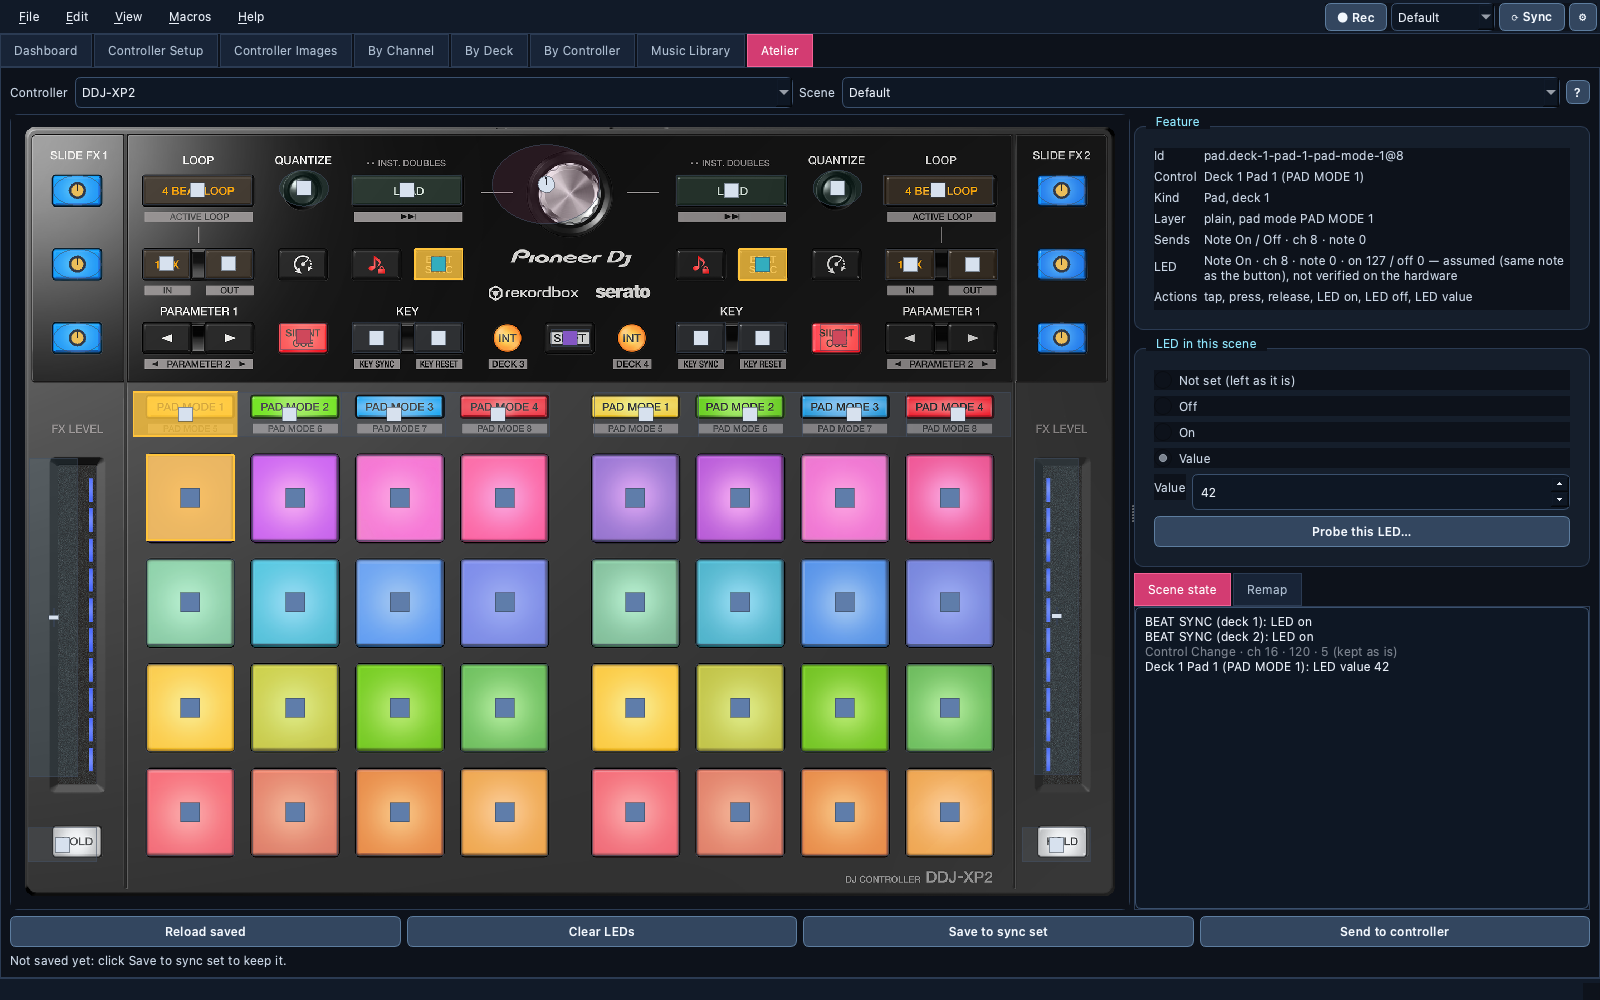
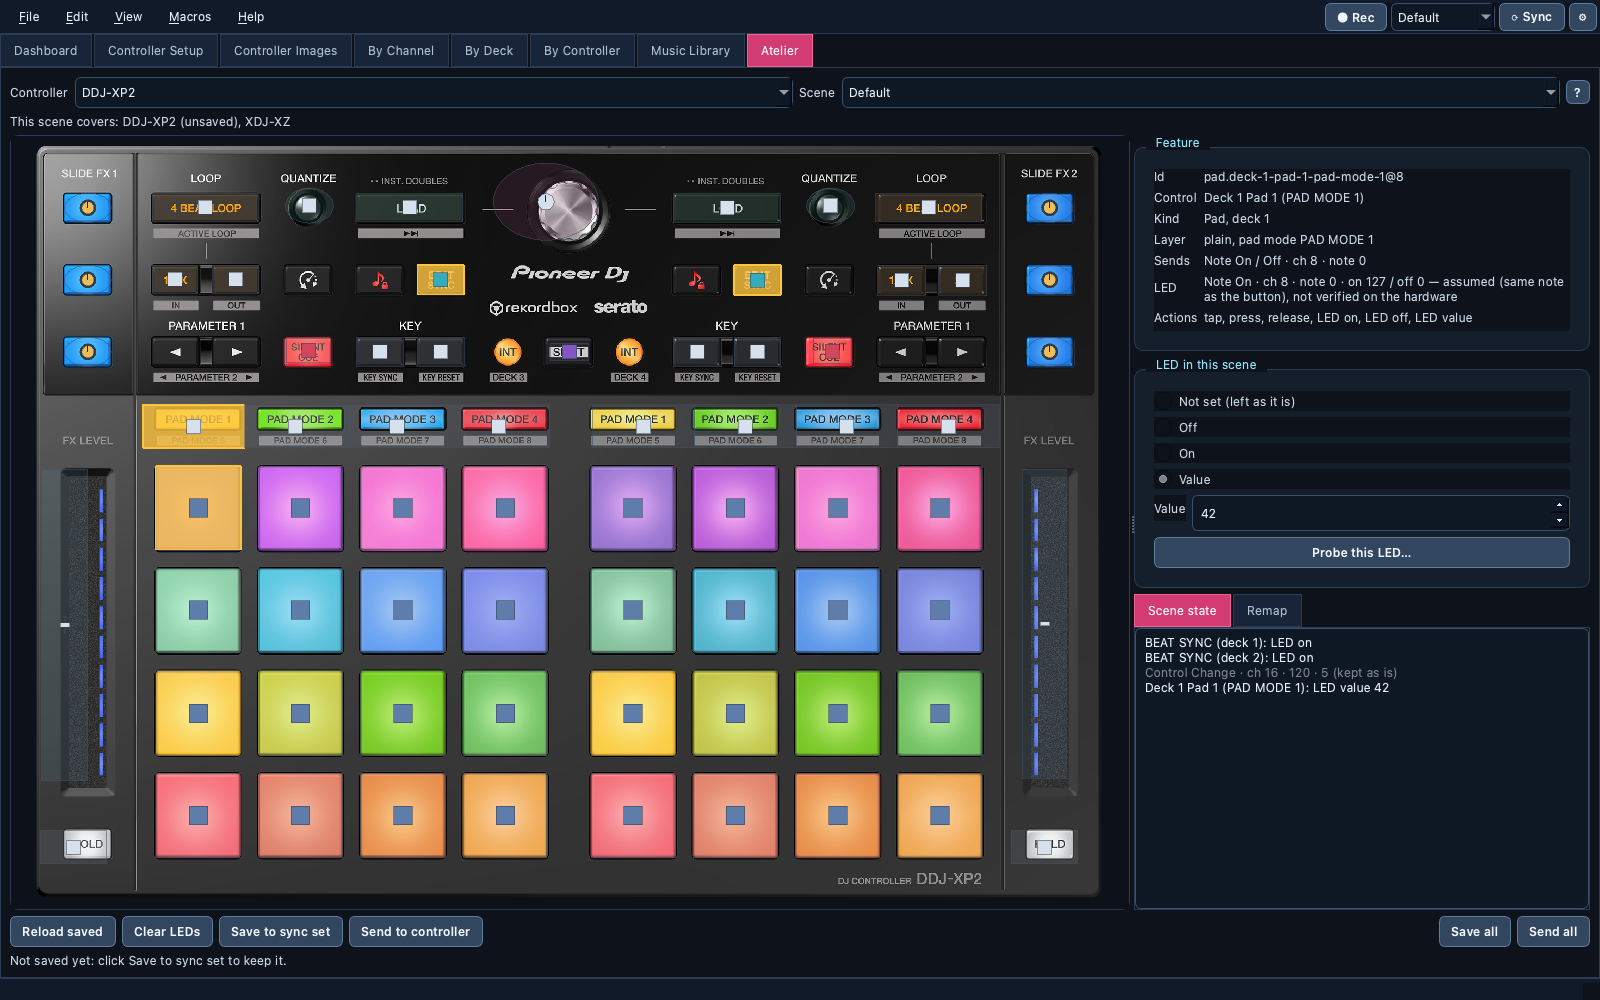
docs: several controllers in one Atelier scene

Changed region(s): [[0.0, 0.093, 1.0, 0.961]]

diff --git a/scripts/capture_docs_screenshots.py b/scripts/capture_docs_screenshots.py
@@ -1048,6 +1048,9 @@ def _capture_atelier(app: QApplication, window: MainWindow) -> None:
             ),
         )
     )
+    # A second controller in the same scene (issue #427): the coverage line
+    # names both, the DDJ-XP2 as unsaved once its pad is edited below.
+    window.preferences.set_sync_set(ControllerSyncSet("XDJ-XZ", messages=(SyncMessage("Note On", 1, 0, 127),)))
     router = window.midi_routing_view.router
     route = MidiRoute("DDJ-XP2", "IAC Driver Bus 1")
     router.add_route(route)

diff --git a/CLAUDE.md b/CLAUDE.md
@@ -51,7 +51,7 @@ Since `v0.47.59` the emulator also reacts to **live** MIDI, passively: `Controll
 
 ### Atelier: controller features instead of raw MIDI (`atelier/`, issue #413)
 
-Epic #413 (maintainer decisions recorded there): a WYSIWYG studio building macros, scenes and sync sets from a controller's own features. **Step 1** (`v0.48.190`) is the Qt-free model. `atelier.features.features_for(controller)` derives one `Feature` per catalog entry (static + every pad-bank variant via `codegen.definition_entries`) and channel, the same raw trigger once: a stable id `section.name@channel` (slugged, symbols spelled out -- `<` → `lt`, `+` → `plus`, `/` → `slash`; `#2` only for one name on two numbers of a channel; the note number is left out so a catalog fix doesn't orphan saved actions), `kind` (`layout.visual_kind_for`), `deck` ("Deck N"/"Deck A-D" in the name, else the channel's rank among the entry's channels), `shift` (`layout.is_shift_variant`), `bank` (`layout.PAD_BANK_RE`), `FeatureInput(kind, channel, number)` and, for a note, `LedOutput` — **assumed** LED note = input note, on 127 / off 0, `verified=False` with its `source` (decision 6; colour palettes and an LED probe are step 5). Cached per controller keyed on the definition object, so a re-registration rebuilds. `atelier.actions`: `FeatureAction(feature_id, verb, value)` (`to_dict`/`from_dict`), verbs AS_CONTROLLER `TAP`/`PRESS`/`RELEASE` (note) and `VALUE` (CC), TO_CONTROLLER `LED_ON`/`LED_OFF`/`LED_VALUE`; `compile_action(s)` → `controller_sync.SyncMessage`s (the type macros and sync sets already play), `decompile(controller, messages, direction)` reads them back, keeping unmatched messages raw (a press right before its release reads as `TAP`; a velocity-0 Note On as `RELEASE`). Faders/jogs aren't catalog entries yet (`gui/jog.py` tables), so they come in a later step. `tests/test_atelier.py` covers the maintainer's six controllers (every feature found back from its own message). **Step 2** (`v0.48.191`): `gui/feature_card.FeatureCard` (read-only `QGroupBox`: id, control, kind + deck, layer + pad bank, sends, LED with the *assumed, not verified* note, actions = `actions.verbs_for`) sits under the Controller Emulator's status line (`ControllerEmulatorView.feature_card`); `_on_control_pressed` calls `_show_feature(key)` *before* a pad-mode/SHIFT click changes the state, and `feature_for_key(key)` resolves the same variant `_resolve` does (`layout.resolve_side_aware_variant`: this side's deck, latched pad mode and SHIFT) to `features.feature_for_message`; a controller switch clears it (`tests/test_feature_card.py`). **Step 3, first slice** (`v0.48.192`): `atelier.describe` (Qt-free) — `controller_for_port(port)` (the single exact, score-100 `detect_controller` match, include disabled; else None), `describe_message(controller, message, direction=TO_CONTROLLER)` / `describe_action` (`"BEAT SYNC: LED on"`); verb words are `actions.VERB_LABELS` (`QT_TRANSLATE_NOOP("FeatureActions", …)`, shared with the feature card through `translator("FeatureActions")`; `atelier/actions.py` is in the translation SOURCES). `MacroManagerDialog` gained a read-only last column (`_FEATURE_COLUMN`, not read by `_rows`, so storage is unchanged) refreshed per row on `itemChanged`, the type combo and the output port (`feature_text(row)` for tests); wait steps and non-controller ports stay blank (`tests/test_atelier_describe.py`). **Step 3, second slice** (`v0.48.193`, decision 3): `MacroStep.feature: atelier.actions.FeatureRef | None` (`controller` + a single-message `FeatureAction`; JSON `"feature": {"controller", "feature", "verb"[, "value"]}` written only when set). `MacroStep.from_dict` recompiles `message` from a resolvable feature (`FeatureRef.resolve()`; a catalog note fix reaches saved macros) and keeps the stored message, and the reference, when it no longer resolves; a wait step never carries one. References are never set by hand: `midi_macros.annotate_with_features(macro)` derives them from each plain step's message when `atelier.describe.controller_for_port(output_port)` names a controller (TO_CONTROLLER decompile), and clears them otherwise, so a stale one can't survive an edit; `MacroManagerDialog._edited` calls it. `gui/feature_step_dialog.FeatureStepDialog(controller)`: LED-capable features (notes) filtered by word prefix (`search_text.tokenize`), LED on/off/value, `steps()` → `MacroStep`s; opened by the editor's **Add from controller…** (`feature_step_dialog_factory`, enabled only when the port is a controller, re-evaluated on port change and macro load). In `test_small_windows`. **Step 3, completed** (`v0.48.194`): `atelier.describe.macro_target(output_port, simulates)` is the one direction rule — a controller port → (it, `TO_CONTROLLER`, LED verbs); else `MidiMacro.simulates` (a registered controller; JSON `"simulates"` written only when set) → (it, `AS_CONTROLLER`); else None — followed by `annotate_with_features`, the editor's Feature column, its "Simulates" combo row (hidden when the port is a controller) and the step dialog. `FeatureStepDialog(controller, parent, direction)`: AS_CONTROLLER lists every feature, a note offers tap / press / release (tap → two steps), a CC a value. Its **Photo** tab (default; the list is the second tab) is an `EmulatorLayoutView` in a scroll area: `pick_key(key)` resolves like `ControllerEmulatorView.feature_for_key` (`resolve_side_aware_variant` with its own per-side pad-mode token and latched SHIFT, `pad_mode.mode_token_for_button` / `grid_side`), clears a filter that hides the pick, keeps the pick / mode button / SHIFT lit (`set_active`); the status line says when a control has no MIDI (or, driving LEDs, no LED) message (`tests/test_atelier_photo_pick.py`, `tests/test_atelier_simulation.py`). **Step 4** (`v0.48.195`): Qt-free `atelier.scene.Scene` — a controller's LED state read from messages (`from_messages` / `from_sync_set`, TO_CONTROLLER decompile; non-LED messages kept as raw items, in place; a repeated LED keeps its first position and last value), `set_led(id, value|None)`, `clear()` (LEDs only), `messages()`, `to_sync_set(existing, scene)` (keeps the existing set's port and scene). `gui/atelier_view.AtelierView` is the eighth `left_tabs` tab (`_tab_indexes["atelier"]`, last): controller + scene combos (`scene_names` of the stored sets plus the active scene), an `EmulatorLayoutView` photo driven by `gui/photo_picker.PhotoPicker` (the click state machine shared with `FeatureStepDialog`: SHIFT, per-side pad mode, picked cell kept lit; returns a `Pick`, callers word it), a `FeatureCard`, LED radios (not set / off / on / value), the scene state list (lit LEDs drawn with `EmulatorLayoutView.set_led`; cells from `catalog.lookup` narrowed to the feature's own channel before `layout.presentation_key_for_hit`, else a deck-1 LED lands on the `(R)` marker), and Reload / Clear LEDs / Save to sync set (`saveRequested` → `MainWindow._on_atelier_save_requested`: `set_sync_set` + `_save_preferences`) / Send to controller (`sendRequested` → `run_sync` via `_aim_sync_sets`). `_refresh_sync_scene_combo` and `_on_controller_applied` refresh it. `atelier.describe.feature_name` adds the deck (`"{name} (deck {deck})"`, FeatureActions context) when the name doesn't say it. `EmulatorLayoutView` gained `controller` and `clear_leds()` (`tests/test_atelier_scene.py`, `tests/test_atelier_view.py`). **Step 5, the LED probe** (`v0.48.196`): Qt-free `atelier.led_data` — `LedRecord(feature_id, channel, note, on_value, off_value, colours{value: name}, source)`, one JSON per controller (`user_paths.controllers_dir()/<slug>.leds.json`, `{"format": "djmidi-leds/1", "controller", "leds": [...]}`, written through `.part`; an unreadable file is logged and ignored). `features_for` applies it: `LedOutput(verified=True, source, colours)` at the recorded address/values; its cache key includes the file's mtime, so a probe result shows at once. `gui/led_probe_dialog.LedProbeDialog(feature, ports, sender=send_midi_message)`: port guessed with `resolve_output_port`, channel/note prefilled from the (assumed) LED, Send this value / Send off (failures shown, never raised), on/off values, named colours; `record()`. Opened by the Atelier's **Probe this LED…** (`led_probe_dialog_factory`, `ports_provider`); saving calls `save_led_record`, reloads, keeps unsaved edits. The feature card says *verified (source)* and lists colours. Real data still has to be captured on the hardware (and the Pioneer colour hypothesis checked there) — `tests/test_atelier_led_probe.py` uses fake senders. **Step 6, remap by clicking** (`v0.48.197`): Qt-free `atelier.remap` — `remap_rule(source, target|None)` (a `midi_router.RemapRule` from two features, None = block; router kinds are lower-case `note`/`cc`), `with_remap(transform, rule)` (replaces a rule for the same source control in place, keeps the rest of the transform), `without_remap`, `describe_remap(controller, rule)` ("BEAT SYNC (deck 1) → QUANTIZE (deck 1)", raw address when unknown). The Atelier's **Remap through a route** box (route combo from `MidiRoutingView.route_labels`, `route_transform(index)`; Remap from this control → next photo pick is the target, Block this control, Remove remap) emits `routeTransformChanged(index, transform)` → `MidiRoutingView.set_route_transform`, which — like the transform dialog now — swaps the route in place through the new `MidiRouter.replace_route` (same source/destination only; `remove`+`add` used to move an edited route to the end). Function assignment (a Serato function onto a control) stays out until Serato's tag names for Play/Cue/Sync are known (#194). `atelier/describe.py` and `atelier/remap.py` are in the translation SOURCES (the `FeatureActions` marks there were not extracted before).
+Epic #413 (maintainer decisions recorded there): a WYSIWYG studio building macros, scenes and sync sets from a controller's own features. **Step 1** (`v0.48.190`) is the Qt-free model. `atelier.features.features_for(controller)` derives one `Feature` per catalog entry (static + every pad-bank variant via `codegen.definition_entries`) and channel, the same raw trigger once: a stable id `section.name@channel` (slugged, symbols spelled out -- `<` → `lt`, `+` → `plus`, `/` → `slash`; `#2` only for one name on two numbers of a channel; the note number is left out so a catalog fix doesn't orphan saved actions), `kind` (`layout.visual_kind_for`), `deck` ("Deck N"/"Deck A-D" in the name, else the channel's rank among the entry's channels), `shift` (`layout.is_shift_variant`), `bank` (`layout.PAD_BANK_RE`), `FeatureInput(kind, channel, number)` and, for a note, `LedOutput` — **assumed** LED note = input note, on 127 / off 0, `verified=False` with its `source` (decision 6; colour palettes and an LED probe are step 5). Cached per controller keyed on the definition object, so a re-registration rebuilds. `atelier.actions`: `FeatureAction(feature_id, verb, value)` (`to_dict`/`from_dict`), verbs AS_CONTROLLER `TAP`/`PRESS`/`RELEASE` (note) and `VALUE` (CC), TO_CONTROLLER `LED_ON`/`LED_OFF`/`LED_VALUE`; `compile_action(s)` → `controller_sync.SyncMessage`s (the type macros and sync sets already play), `decompile(controller, messages, direction)` reads them back, keeping unmatched messages raw (a press right before its release reads as `TAP`; a velocity-0 Note On as `RELEASE`). Faders/jogs aren't catalog entries yet (`gui/jog.py` tables), so they come in a later step. `tests/test_atelier.py` covers the maintainer's six controllers (every feature found back from its own message). **Step 2** (`v0.48.191`): `gui/feature_card.FeatureCard` (read-only `QGroupBox`: id, control, kind + deck, layer + pad bank, sends, LED with the *assumed, not verified* note, actions = `actions.verbs_for`) sits under the Controller Emulator's status line (`ControllerEmulatorView.feature_card`); `_on_control_pressed` calls `_show_feature(key)` *before* a pad-mode/SHIFT click changes the state, and `feature_for_key(key)` resolves the same variant `_resolve` does (`layout.resolve_side_aware_variant`: this side's deck, latched pad mode and SHIFT) to `features.feature_for_message`; a controller switch clears it (`tests/test_feature_card.py`). **Step 3, first slice** (`v0.48.192`): `atelier.describe` (Qt-free) — `controller_for_port(port)` (the single exact, score-100 `detect_controller` match, include disabled; else None), `describe_message(controller, message, direction=TO_CONTROLLER)` / `describe_action` (`"BEAT SYNC: LED on"`); verb words are `actions.VERB_LABELS` (`QT_TRANSLATE_NOOP("FeatureActions", …)`, shared with the feature card through `translator("FeatureActions")`; `atelier/actions.py` is in the translation SOURCES). `MacroManagerDialog` gained a read-only last column (`_FEATURE_COLUMN`, not read by `_rows`, so storage is unchanged) refreshed per row on `itemChanged`, the type combo and the output port (`feature_text(row)` for tests); wait steps and non-controller ports stay blank (`tests/test_atelier_describe.py`). **Step 3, second slice** (`v0.48.193`, decision 3): `MacroStep.feature: atelier.actions.FeatureRef | None` (`controller` + a single-message `FeatureAction`; JSON `"feature": {"controller", "feature", "verb"[, "value"]}` written only when set). `MacroStep.from_dict` recompiles `message` from a resolvable feature (`FeatureRef.resolve()`; a catalog note fix reaches saved macros) and keeps the stored message, and the reference, when it no longer resolves; a wait step never carries one. References are never set by hand: `midi_macros.annotate_with_features(macro)` derives them from each plain step's message when `atelier.describe.controller_for_port(output_port)` names a controller (TO_CONTROLLER decompile), and clears them otherwise, so a stale one can't survive an edit; `MacroManagerDialog._edited` calls it. `gui/feature_step_dialog.FeatureStepDialog(controller)`: LED-capable features (notes) filtered by word prefix (`search_text.tokenize`), LED on/off/value, `steps()` → `MacroStep`s; opened by the editor's **Add from controller…** (`feature_step_dialog_factory`, enabled only when the port is a controller, re-evaluated on port change and macro load). In `test_small_windows`. **Step 3, completed** (`v0.48.194`): `atelier.describe.macro_target(output_port, simulates)` is the one direction rule — a controller port → (it, `TO_CONTROLLER`, LED verbs); else `MidiMacro.simulates` (a registered controller; JSON `"simulates"` written only when set) → (it, `AS_CONTROLLER`); else None — followed by `annotate_with_features`, the editor's Feature column, its "Simulates" combo row (hidden when the port is a controller) and the step dialog. `FeatureStepDialog(controller, parent, direction)`: AS_CONTROLLER lists every feature, a note offers tap / press / release (tap → two steps), a CC a value. Its **Photo** tab (default; the list is the second tab) is an `EmulatorLayoutView` in a scroll area: `pick_key(key)` resolves like `ControllerEmulatorView.feature_for_key` (`resolve_side_aware_variant` with its own per-side pad-mode token and latched SHIFT, `pad_mode.mode_token_for_button` / `grid_side`), clears a filter that hides the pick, keeps the pick / mode button / SHIFT lit (`set_active`); the status line says when a control has no MIDI (or, driving LEDs, no LED) message (`tests/test_atelier_photo_pick.py`, `tests/test_atelier_simulation.py`). **Step 4** (`v0.48.195`): Qt-free `atelier.scene.Scene` — a controller's LED state read from messages (`from_messages` / `from_sync_set`, TO_CONTROLLER decompile; non-LED messages kept as raw items, in place; a repeated LED keeps its first position and last value), `set_led(id, value|None)`, `clear()` (LEDs only), `messages()`, `to_sync_set(existing, scene)` (keeps the existing set's port and scene). `gui/atelier_view.AtelierView` is the eighth `left_tabs` tab (`_tab_indexes["atelier"]`, last): controller + scene combos (`scene_names` of the stored sets plus the active scene), an `EmulatorLayoutView` photo driven by `gui/photo_picker.PhotoPicker` (the click state machine shared with `FeatureStepDialog`: SHIFT, per-side pad mode, picked cell kept lit; returns a `Pick`, callers word it), a `FeatureCard`, LED radios (not set / off / on / value), the scene state list (lit LEDs drawn with `EmulatorLayoutView.set_led`; cells from `catalog.lookup` narrowed to the feature's own channel before `layout.presentation_key_for_hit`, else a deck-1 LED lands on the `(R)` marker), and Reload / Clear LEDs / Save to sync set (`saveRequested` → `MainWindow._on_atelier_save_requested`: `set_sync_set` + `_save_preferences`) / Send to controller (`sendRequested` → `run_sync` via `_aim_sync_sets`). `_refresh_sync_scene_combo` and `_on_controller_applied` refresh it. `atelier.describe.feature_name` adds the deck (`"{name} (deck {deck})"`, FeatureActions context) when the name doesn't say it. `EmulatorLayoutView` gained `controller` and `clear_leds()` (`tests/test_atelier_scene.py`, `tests/test_atelier_view.py`). **Step 5, the LED probe** (`v0.48.196`): Qt-free `atelier.led_data` — `LedRecord(feature_id, channel, note, on_value, off_value, colours{value: name}, source)`, one JSON per controller (`user_paths.controllers_dir()/<slug>.leds.json`, `{"format": "djmidi-leds/1", "controller", "leds": [...]}`, written through `.part`; an unreadable file is logged and ignored). `features_for` applies it: `LedOutput(verified=True, source, colours)` at the recorded address/values; its cache key includes the file's mtime, so a probe result shows at once. `gui/led_probe_dialog.LedProbeDialog(feature, ports, sender=send_midi_message)`: port guessed with `resolve_output_port`, channel/note prefilled from the (assumed) LED, Send this value / Send off (failures shown, never raised), on/off values, named colours; `record()`. Opened by the Atelier's **Probe this LED…** (`led_probe_dialog_factory`, `ports_provider`); saving calls `save_led_record`, reloads, keeps unsaved edits. The feature card says *verified (source)* and lists colours. Real data still has to be captured on the hardware (and the Pioneer colour hypothesis checked there) — `tests/test_atelier_led_probe.py` uses fake senders. **Step 6, remap by clicking** (`v0.48.197`): Qt-free `atelier.remap` — `remap_rule(source, target|None)` (a `midi_router.RemapRule` from two features, None = block; router kinds are lower-case `note`/`cc`), `with_remap(transform, rule)` (replaces a rule for the same source control in place, keeps the rest of the transform), `without_remap`, `describe_remap(controller, rule)` ("BEAT SYNC (deck 1) → QUANTIZE (deck 1)", raw address when unknown). The Atelier's **Remap through a route** box (route combo from `MidiRoutingView.route_labels`, `route_transform(index)`; Remap from this control → next photo pick is the target, Block this control, Remove remap) emits `routeTransformChanged(index, transform)` → `MidiRoutingView.set_route_transform`, which — like the transform dialog now — swaps the route in place through the new `MidiRouter.replace_route` (same source/destination only; `remove`+`add` used to move an edited route to the end). Function assignment (a Serato function onto a control) stays out until Serato's tag names for Play/Cue/Sync are known (#194). **Several controllers per scene** (`v0.48.199`, #427): `AtelierView._drafts` keeps an unsaved `Scene` per `(controller, scene name)` (`_mark_dirty` on every edit; `is_dirty` = the loaded key has a draft), so `load()` shows a draft before the stored set and `reload_saved()` drops only the current one; `save()` drops the draft *before* emitting (MainWindow's save reloads the scene list). Qt-free `atelier.scene.scene_coverage(controllers, scene, stored, unsaved)` → `SceneCoverage(controller, saved, unsaved)` drives `coverage_label` and bold combo items (`Qt.FontRole`); **Save all** emits `saveRequested` per draft, **Send all** emits `sendAllRequested(list)` → `MainWindow._on_atelier_send_all_requested` (one `run_sync` via `_aim_sync_sets`). `atelier/describe.py` and `atelier/remap.py` are in the translation SOURCES (the `FeatureActions` marks there were not extracted before).
 
 ### Native crash traces (`logging_config.enable_crash_log`, `gui/click_trail.py`, `v0.48.189`)
 

diff --git a/docs/enduser/features/atelier.md b/docs/enduser/features/atelier.md
@@ -10,6 +10,7 @@
 - [What it does](#what-it-does)
 - [Design a scene](#design-a-scene)
 - [Save, send and reload](#save-send-and-reload)
+- [Several controllers in one scene](#several-controllers-in-one-scene)
 - [What is kept](#what-is-kept)
 - [LED addresses](#led-addresses)
 - [Remap a control](#remap-a-control)
@@ -48,7 +49,22 @@ scene sets; click a line to select that control again.
 | **Save to sync set** | Stores the scene as the controller's sync set for that scene: the next Sync puts the controller in this state |
 | **Send to controller** | Sends the scene to the controller now, without saving, to try it |
 | **Clear LEDs** | Removes every LED from the scene (other messages stay) |
-| **Reload saved** | Drops your changes and reads the saved sync set again |
+| **Reload saved** | Drops this controller's changes and reads its saved sync set again |
+| **Save all** | Saves the scene's changes for every controller you edited |
+| **Send all** | Sends the scene to every controller it covers at once, saved or not |
+
+## Several controllers in one scene
+
+A scene can set up more than one controller, for example an XDJ-XZ and a
+DDJ-XP2 for the same club. Switch the **Controller** list from one to the
+other: your changes on each one are kept until you save them or click
+**Reload saved**.
+
+The line under the lists names the controllers the scene covers. A
+controller with changes not saved yet is marked *(unsaved)*. Controllers
+that are part of the scene are shown in bold in the **Controller** list.
+**Save all** saves them all, and **Send all** sends the scene to every one
+of them in one go.
 
 ## What is kept
 

diff --git a/TODO.md b/TODO.md
@@ -139,6 +139,11 @@ Implemented contract, runtime, test, and documentation work:
 
 ### Recent evolution chapters
 
+- [x] **Atelier scenes across several controllers** (`v0.48.199-atelier-multi-scenes`, #427) — switching the
+  Atelier's controller or scene keeps unsaved edits per (controller, scene); a line under the lists names the
+  controllers the scene covers (saved, or *(unsaved)*), bold in the controller list; **Save all** saves every
+  edited controller, **Send all** sends the scene to all of them in one Sync. Also fixed: saving no longer
+  risks reviving the just-saved draft when the scene list reloads.
 - [x] **Guided hardware session** (`v0.48.198-hardware-session`, #426) — **Help → Hardware Session…** lists every
   check still waiting for real controllers or DJ software (DDJ-XP2 1/2X / 2X notes, CMD Micro / Studio 4a jogs, the
   Atelier's LED probe and Pioneer colours, the freeze fix, Serato MIDI-learn, Traktor import and Controller Manager
@@ -3774,7 +3779,7 @@ close what can't be unblocked here.
    (`IAC 1, IAC 2, IAC 1, IAC 2`) in the same session — not reproduced either.
 12. **Phase 9**, agreed 2026-11-09 (one PR and tag each, in this order):
    1. Guided hardware session (#426) — **done** in `v0.48.198`.
-   2. Atelier scenes spanning several controllers (#427).
+   2. Atelier scenes spanning several controllers (#427) — **done** in `v0.48.199`.
    3. Atelier macros built on the photo (#428).
    4. Quality pass: split `main_window.py`, trim CLAUDE.md, faster tests (#429).
 
